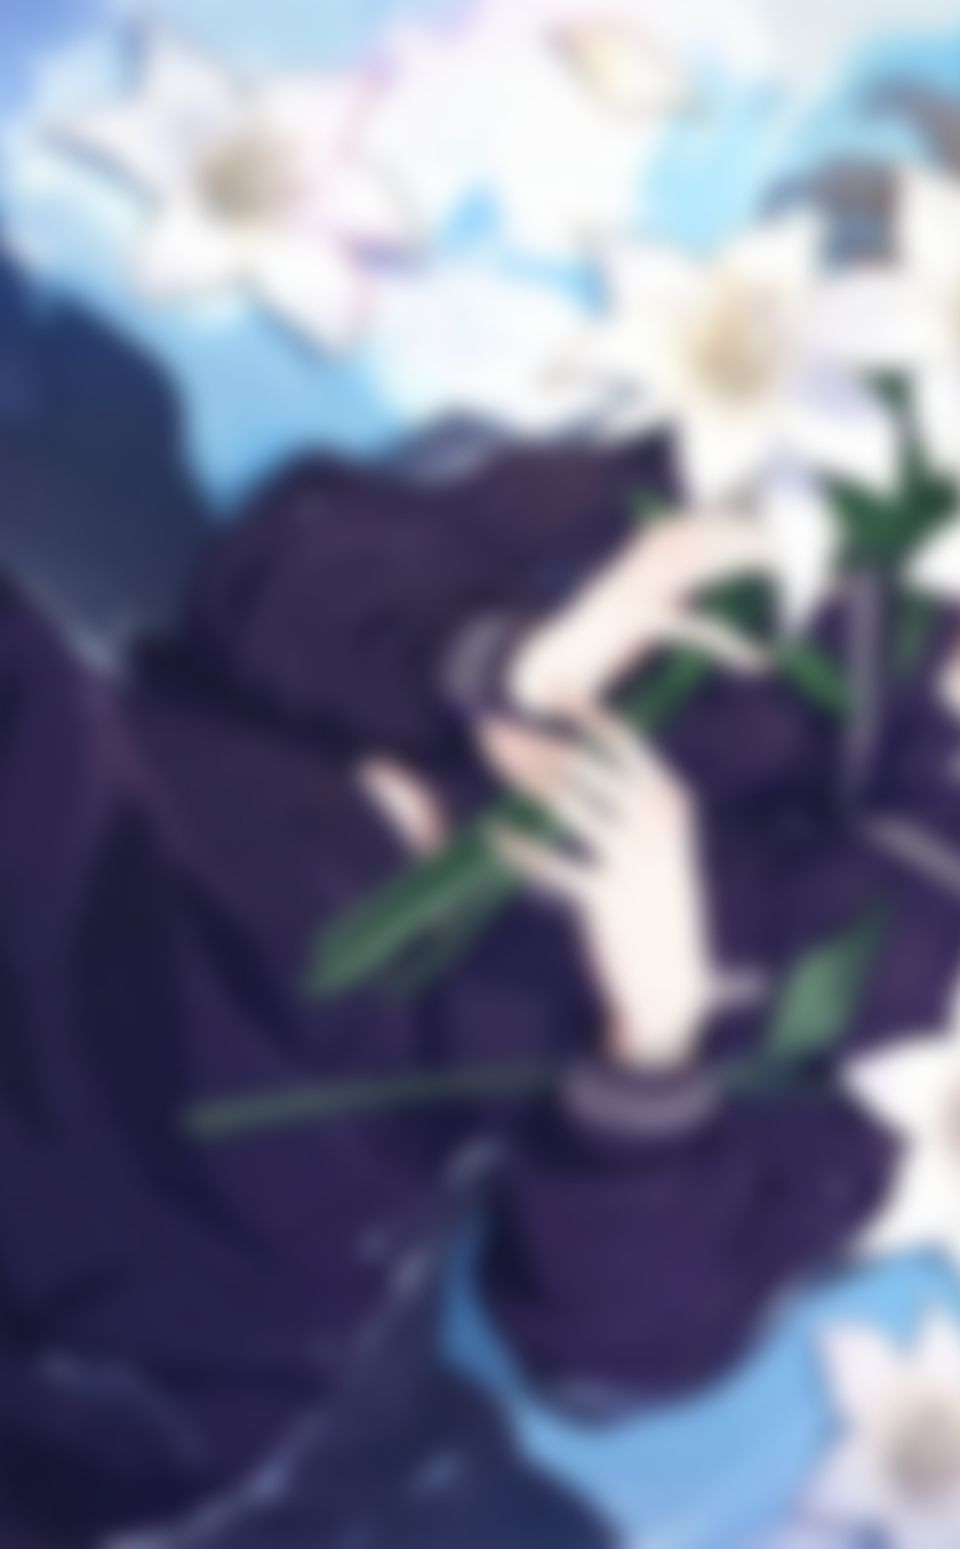
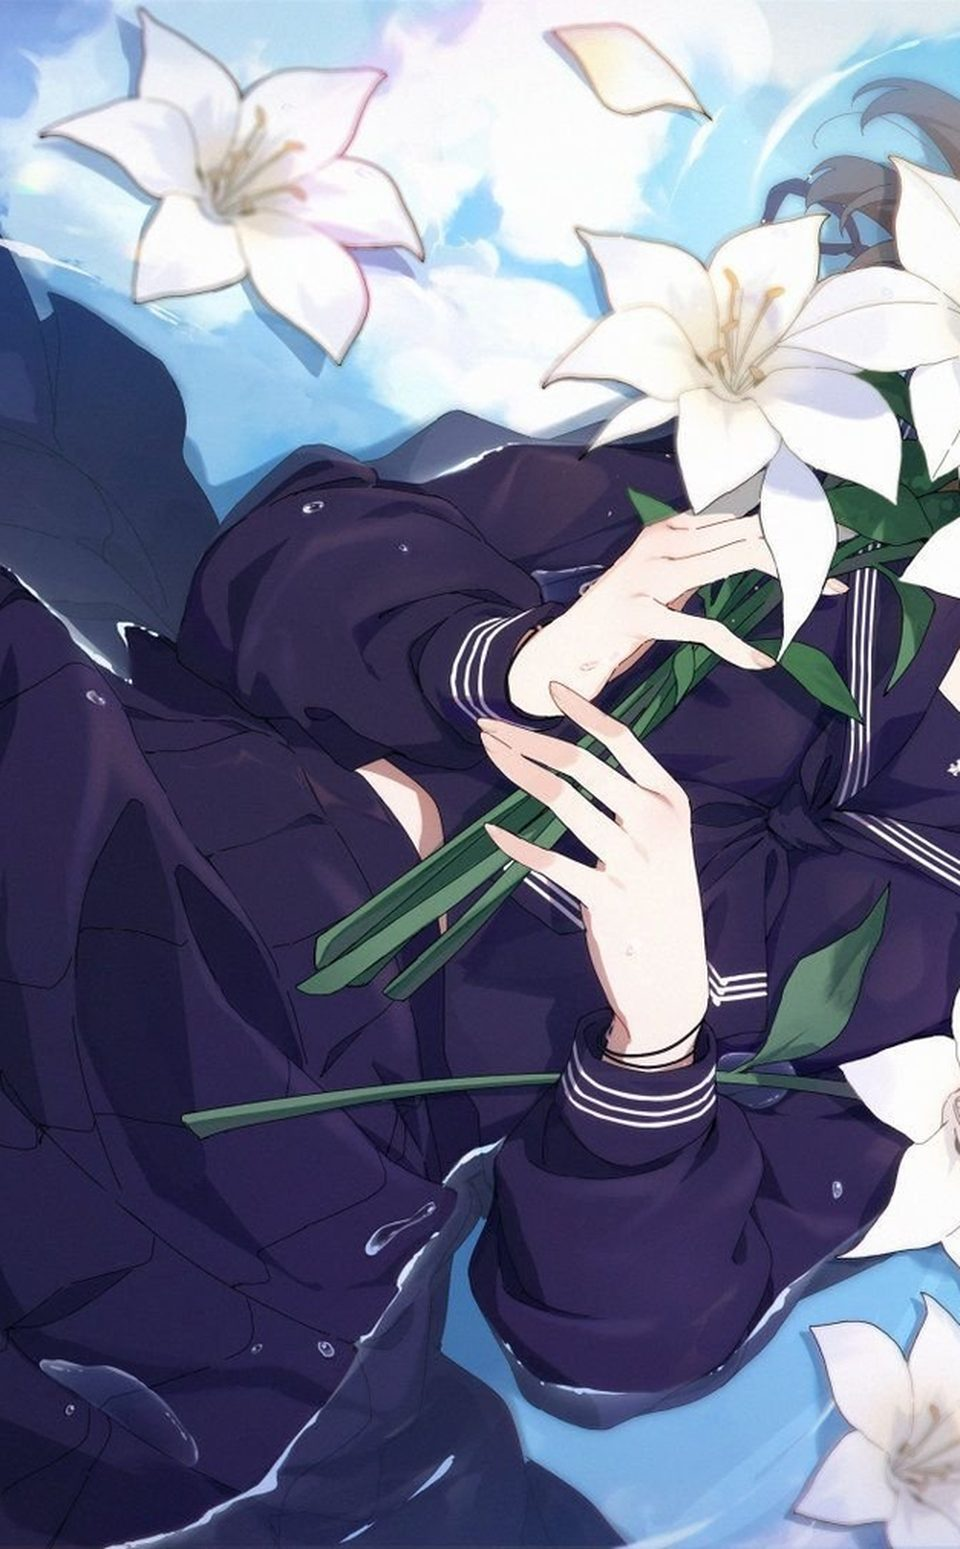
feat: 主题切换改用 View Transitions API；背景去掉全部遮罩
主题切换：
- 参照 HubSuite-Introduction 的做法，改用 View Transitions API
  浏览器拍下切换前后两张快照，新快照用圆形裁切从按钮位置铺开，
  整页（文字、顶栏、背景）都参与过渡
- 1.1s / cubic-bezier(.35,0,.25,1)，旧快照垫底不淡出
- 不支持该 API 的浏览器退回 0.5s 颜色渐变
- prefers-reduced-motion 下完全不介入
- 删掉自己手搓的 ThemeVeil 组件

背景：
- 去掉光晕（原蓝/琥珀两层径向渐变）
- 去掉烘焙在图里的 8px 高斯模糊，图片直接缩到 1920 存 84 质量
- 去掉白色遮罩（--bg-mask / --bg-scrim / --bg-focus）与暗色下的黑色遮罩
- 背景现在就是原图本身

玻璃材质的投影与高光保持原样（之前误改，已还原）。

diff --git a/src/hooks/useTheme.ts b/src/hooks/useTheme.ts
@@ -6,14 +6,24 @@
  *
  *  主题在 React 挂载前就写入 <html data-theme>，避免首屏亮暗闪烁 ——
  *  脚本内联在 index.html 中。
+ *
+ *  切换时用 View Transitions API 做圆形揭示：从按钮位置扩散开一个新主题的
+ *  圆形裁切，旧快照垫在下面不动。
  * ========================================================================== */
 
-import { useEffect, useState } from 'react'
+import { useCallback, useEffect, useState } from 'react'
+import { flushSync } from 'react-dom'
 
 export type ThemeMode = 'light' | 'dark'
 
 const STORAGE_KEY = 'shizuku-theme'
 const MODES: ThemeMode[] = ['light', 'dark']
+/** 兜底颜色渐变的时长，和 CSS 里的 transition 对齐 */
+const FALLBACK_MS = 520
+
+type ViewTransitionDocument = Document & {
+  startViewTransition?: (cb: () => void | Promise<void>) => { finished?: Promise<void> }
+}
 
 function systemPrefersDark(): boolean {
   return typeof window !== 'undefined' && window.matchMedia('(prefers-color-scheme: dark)').matches
@@ -42,6 +52,13 @@ export function applyTheme(mode: ThemeMode) {
   root.dataset.themeMode = mode
 }
 
+function clearTransitionVars() {
+  const root = document.documentElement
+  root.style.removeProperty('--vt-x')
+  root.style.removeProperty('--vt-y')
+  root.style.removeProperty('--vt-r')
+}
+
 export function useTheme() {
   const [mode, setMode] = useState<ThemeMode>(getStoredMode)
 
@@ -50,7 +67,74 @@ export function useTheme() {
     window.localStorage.setItem(STORAGE_KEY, mode)
   }, [mode])
 
-  const toggle = () => setMode((prev) => (prev === 'dark' ? 'light' : 'dark'))
+  return { mode, setMode }
+}
 
-  return { mode, setMode, toggle }
+/**
+ * 带圆形揭示动画的主题切换。
+ *
+ * 优先 View Transitions API：浏览器拍下切换前后的两张快照，
+ * 新快照用圆形裁切铺开 —— 整页（文字、顶栏、图片）都在过渡里。
+ *
+ * 不支持该 API 的浏览器退回「颜色渐变」：临时挂一个 class，
+ * 让颜色属性平滑过渡 0.5s。
+ */
+export function useThemeTransition() {
+  const { mode, setMode } = useTheme()
+  const next: ThemeMode = mode === 'dark' ? 'light' : 'dark'
+
+  const toggle = useCallback(
+    (origin?: HTMLElement | null) => {
+      const doc = document as ViewTransitionDocument
+
+      // 系统里关掉了动画：不介入
+      if (window.matchMedia('(prefers-reduced-motion: reduce)').matches) {
+        setMode(next)
+        return
+      }
+
+      // 不支持 View Transitions：退化成颜色渐变
+      if (typeof doc.startViewTransition !== 'function') {
+        const root = document.documentElement
+        root.classList.add('theme-transition')
+        setMode(next)
+        window.setTimeout(() => root.classList.remove('theme-transition'), FALLBACK_MS)
+        return
+      }
+
+      // 圆心 = 触发按钮中心，半径要能盖住整个视口
+      if (origin) {
+        const rect = origin.getBoundingClientRect()
+        const x = rect.left + rect.width / 2
+        const y = rect.top + rect.height / 2
+        const radius = Math.hypot(
+          Math.max(x, window.innerWidth - x),
+          Math.max(y, window.innerHeight - y),
+        )
+        const root = document.documentElement
+        root.style.setProperty('--vt-x', `${x}px`)
+        root.style.setProperty('--vt-y', `${y}px`)
+        root.style.setProperty('--vt-r', `${radius}px`)
+      }
+
+      try {
+        const vt = doc.startViewTransition(() => {
+          // applyTheme 同步改 DOM，浏览器才能拍到新状态的快照；
+          // flushSync 让 React 的状态也同步跟上，图标才不会慢半拍。
+          applyTheme(next)
+          flushSync(() => setMode(next))
+        })
+
+        if (vt.finished) vt.finished.finally(clearTransitionVars)
+        else clearTransitionVars()
+      } catch {
+        // 出任何问题都退化成直接切换，绝不把按钮点坏
+        setMode(next)
+        clearTransitionVars()
+      }
+    },
+    [next, setMode],
+  )
+
+  return { mode, toggle }
 }

diff --git a/src/components/SiteHeader.tsx b/src/components/SiteHeader.tsx
@@ -6,41 +6,17 @@
  *  页面下滚后只折叠署名，Shizuku / 个人主页 两行的相对位置始终不变。
  * ========================================================================== */
 
-import { useState } from 'react'
 import { profile, site } from '@/content/site'
 import { Icon } from './Icon'
-import { ThemeVeil } from './ThemeVeil'
-import type { VeilState } from './ThemeVeil'
-import { useTheme } from '@/hooks/useTheme'
+import { useThemeTransition } from '@/hooks/useTheme'
 import { useScrollCollapse } from '@/hooks/useScrollCollapse'
 import './SiteHeader.css'
 
 export function SiteHeader() {
-  const { mode, setMode } = useTheme()
+  const { mode, toggle } = useThemeTransition()
   const collapsed = useScrollCollapse()
-  const [veil, setVeil] = useState<VeilState | null>(null)
 
   const themeLabel = mode === 'dark' ? '深色' : '浅色'
-
-  /** 以按钮为圆心放出一枚遮罩，盖满整屏后再换主题 */
-  function onToggleTheme(e: React.MouseEvent<HTMLButtonElement>) {
-    if (veil) return
-
-    const btn = e.currentTarget.getBoundingClientRect()
-    const x = btn.left + btn.width / 2
-    const y = btn.top + btn.height / 2
-    // 半径取到最远的那个视口角，保证能盖满
-    const r = Math.hypot(Math.max(x, window.innerWidth - x), Math.max(y, window.innerHeight - y))
-
-    setVeil({ x, y, r, target: mode === 'dark' ? 'light' : 'dark' })
-  }
-
-  /** 遮罩播完：换主题，摘掉遮罩（此刻两者颜色一致，看不出接缝） */
-  function onVeilDone() {
-    if (!veil) return
-    setMode(veil.target)
-    setVeil(null)
-  }
 
   return (
     <>
@@ -73,7 +49,7 @@ export function SiteHeader() {
             <button
               type="button"
               className="theme-toggle"
-              onClick={onToggleTheme}
+              onClick={(e) => toggle(e.currentTarget)}
               aria-label={`主题：${themeLabel}，点击切换`}
               title={themeLabel}
             >
@@ -82,8 +58,6 @@ export function SiteHeader() {
           </div>
         </header>
       </div>
-
-      <ThemeVeil veil={veil} onDone={onVeilDone} />
     </>
   )
 }

diff --git a/src/styles/theme-transition.css b/src/styles/theme-transition.css
@@ -1,0 +1,66 @@
+/* ============================================================================
+ *  Shizuku · 主题切换动画
+ * ----------------------------------------------------------------------------
+ *  用 View Transitions API 做圆形揭示：
+ *  浏览器在切换时拍下「旧状态」和「新状态」两张快照，
+ *  旧快照垫在下面不动，新快照用圆形裁切从按钮位置铺开。
+ *
+ *  整页都在过渡里 —— 文字、顶栏、背景一起变，
+ *  不像「盖一层平色」那样只是把背景换掉。
+ * ========================================================================== */
+
+::view-transition-old(root),
+::view-transition-new(root) {
+  animation: none;
+  mix-blend-mode: normal;
+}
+
+/* 旧快照压在下面，不淡出 */
+::view-transition-old(root) {
+  z-index: 1;
+}
+
+/* 新快照在上面做圆形揭示 */
+::view-transition-new(root) {
+  z-index: 2;
+  clip-path: circle(0 at var(--vt-x, 50%) var(--vt-y, 50%));
+  animation: theme-reveal 1.1s cubic-bezier(0.35, 0, 0.25, 1) forwards;
+}
+
+@keyframes theme-reveal {
+  from {
+    clip-path: circle(0 at var(--vt-x, 50%) var(--vt-y, 50%));
+  }
+  to {
+    clip-path: circle(var(--vt-r, 100vmax) at var(--vt-x, 50%) var(--vt-y, 50%));
+  }
+}
+
+/* 兜底：不支持 View Transitions 时，颜色平滑过渡。
+   只在切换的这半秒内挂上，避免污染其它常态过渡。 */
+html.theme-transition,
+html.theme-transition *,
+html.theme-transition *::before,
+html.theme-transition *::after {
+  transition:
+    background-color 0.5s ease,
+    border-color 0.5s ease,
+    color 0.5s ease,
+    fill 0.5s ease,
+    stroke 0.5s ease !important;
+}
+
+/* 系统关掉动画时，两种方案都不生效 */
+@media (prefers-reduced-motion: reduce) {
+  ::view-transition-old(root),
+  ::view-transition-new(root) {
+    animation: none !important;
+  }
+
+  html.theme-transition,
+  html.theme-transition *,
+  html.theme-transition *::before,
+  html.theme-transition *::after {
+    transition: none !important;
+  }
+}

diff --git a/src/styles/tokens.css b/src/styles/tokens.css
@@ -113,27 +113,7 @@ html {
   --hairline: rgba(28, 37, 48, 0.08);
   --hairline-strong: rgba(28, 37, 48, 0.14);
 
-  /* 背景光斑（氛围层） */
-  --glow-primary: rgba(63, 125, 140, 0.18);
-  --glow-accent: rgba(217, 148, 41, 0.14);
 
-  /* 背景图遮罩 —— 白色，压掉原图对比度 */
-  --bg-mask: rgba(247, 249, 250, 0.58);
-  /* 内容侧的方向性遮罩：左侧（文字区）擦干净，右侧（画面区）留给图 */
-  --bg-scrim: linear-gradient(
-    100deg,
-    rgba(247, 249, 250, 0.9) 0%,
-    rgba(247, 249, 250, 0.72) 34%,
-    rgba(247, 249, 250, 0.4) 62%,
-    rgba(247, 249, 250, 0.14) 100%
-  );
-  /* 文字区的焦点遮罩：在内容列位置擦出一池干净的白 */
-  --bg-focus: radial-gradient(
-    58% 54% at 14% 40%,
-    rgba(247, 249, 250, 0.9) 0%,
-    rgba(247, 249, 250, 0.55) 45%,
-    rgba(247, 249, 250, 0) 78%
-  );
 }
 
 /* ============================================================================
@@ -166,22 +146,6 @@ html {
   --glass-shadow-hover: 0 12px 40px rgba(0, 0, 0, 0.4);
   --glass-inner: inset 0 1px 0 rgba(255, 255, 255, 0.06);
 
-  --glow-primary: rgba(63, 125, 140, 0.28);
-  --glow-accent: rgba(217, 148, 41, 0.16);
 
   /* 暗色下换成深色遮罩，同一张图压成夜色 */
-  --bg-mask: rgba(12, 18, 22, 0.74);
-  --bg-scrim: linear-gradient(
-    100deg,
-    rgba(12, 18, 22, 0.93) 0%,
-    rgba(12, 18, 22, 0.8) 34%,
-    rgba(12, 18, 22, 0.58) 62%,
-    rgba(12, 18, 22, 0.34) 100%
-  );
-  --bg-focus: radial-gradient(
-    58% 54% at 14% 40%,
-    rgba(12, 18, 22, 0.82) 0%,
-    rgba(12, 18, 22, 0.45) 45%,
-    rgba(12, 18, 22, 0) 78%
-  );
 }

diff --git a/src/styles/base.css b/src/styles/base.css
@@ -44,35 +44,21 @@ body {
     color var(--dur-base) var(--ease-apple);
 }
 
-/* ---------- 背景层 1：背景图 + 遮罩 ---------- */
-/*  遮罩是关键：原图对比度约 78，直接用会让玻璃卡片背后的明暗乱跳。
- *  白色遮罩按 (1 - α) 等比压缩对比度，62% ≈ 降到 30，足够安静。
- *  暗色模式换深色遮罩，同一张图变成夜色。 */
+/* ---------- 背景层：原图，不加任何遮罩 ---------- */
+/*  光晕、模糊、白色/黑色遮罩都去掉了 —— 背景就是原图本身。 */
 body::before {
   content: '';
   position: fixed;
   inset: 0;
   z-index: -2;
-  background:
-    radial-gradient(120% 80% at 15% 0%, var(--glow-primary), transparent 60%),
-    radial-gradient(100% 70% at 85% 100%, var(--glow-accent), transparent 60%),
-    var(--bg-focus),
-    var(--bg-scrim),
-    linear-gradient(var(--bg-mask), var(--bg-mask)),
-    url('/bg.jpg') center / cover no-repeat;
+  background: url('/bg.jpg') center / cover no-repeat;
   pointer-events: none;
 }
 
 /*  竖屏用裁切更聚焦的版本，避免外套大面积留白 */
 @media (max-aspect-ratio: 3/4) {
   body::before {
-    background:
-      radial-gradient(120% 80% at 15% 0%, var(--glow-primary), transparent 60%),
-      radial-gradient(100% 70% at 85% 100%, var(--glow-accent), transparent 60%),
-      var(--bg-focus),
-      var(--bg-scrim),
-      linear-gradient(var(--bg-mask), var(--bg-mask)),
-      url('/bg-portrait.jpg') center / cover no-repeat;
+    background: url('/bg-portrait.jpg') center / cover no-repeat;
   }
 }
 

diff --git a/src/main.tsx b/src/main.tsx
@@ -10,6 +10,7 @@ import './styles/tokens.css'
 import './styles/base.css'
 import './styles/glass.css'
 import './styles/content.css'
+import './styles/theme-transition.css'
 
 import { App } from './App'
 import { applyTheme, getStoredMode } from './hooks/useTheme'

diff --git a/README.md b/README.md
@@ -159,24 +159,21 @@ animation: theme-veil-in 620ms var(--ease-apple) forwards;
 
 ### 背景图
 
-背景是四层叠加：
+背景就是原图本身 —— 光晕、模糊、白色与黑色遮罩全部去掉了：
 
 ```css
 /* base.css */
 body::before {
-  background:
-    var(--bg-focus),                                 /* 文字区的焦点遮罩 */
-    var(--bg-scrim),                                 /* 左实右透的方向性遮罩 */
-    linear-gradient(var(--bg-mask), var(--bg-mask)), /* 整体压淡 */
-    url('/bg.jpg') center / cover no-repeat;
+  background: url('/bg.jpg') center / cover no-repeat;
 }
 ```
 
-原图对比度约 σ=79，直接铺在正文下面会让可读性随位置漂移。
-遮罩按 `新对比度 = 原对比度 × (1 - α)` 等比压缩。
+图片直接缩到 1920 宽存成 84 质量 JPEG（272KB），不额外做高斯模糊。
 
-**换图时建议**：先做 8–10px 高斯模糊再保存为 82 质量 JPEG。
-模糊后的图压缩率高得多（实测 883KB → 95KB），而且轻度模糊正是磨砂玻璃需要的前置。
+> ⚠ 这么做的代价：原图对比度 σ≈68，浅色主题的正文对比度只有 **1.1:1**，
+> 基本读不了。深色主题反而没问题（11.7:1）。
+> 如果之后要加回可读性，往 `body::before` 的 `background` 里补一层
+> `linear-gradient(var(--bg-mask), var(--bg-mask))` 即可，遮罩色值是现成的变量位。
 
 ---
 
